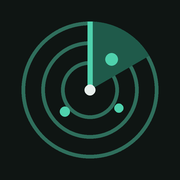
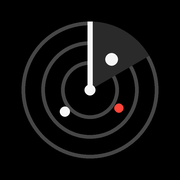
Radar IA : couleurs de l'appli Comptes
Claude-Session: https://claude.ai/code/session_01Udg2ct4pf48joXQAc4VBC9

Changed region(s): [[0.1111, 0.1111, 0.8889, 0.8889]]

diff --git a/index.html b/index.html
@@ -7,70 +7,60 @@
 <meta name="apple-mobile-web-app-capable" content="yes">
 <meta name="mobile-web-app-capable" content="yes">
 <meta name="apple-mobile-web-app-title" content="Radar IA">
-<meta name="apple-mobile-web-app-status-bar-style" content="default">
-<meta name="theme-color" content="#f3f5f4" media="(prefers-color-scheme: light)">
-<meta name="theme-color" content="#0f1513" media="(prefers-color-scheme: dark)">
+<meta name="apple-mobile-web-app-status-bar-style" content="black">
+<meta name="theme-color" content="#000000">
 <link rel="manifest" href="manifest.json">
 <link rel="apple-touch-icon" href="icon-180.png">
 <link rel="icon" href="icon-192.png">
 <link rel="preconnect" href="https://fonts.googleapis.com">
-<link rel="stylesheet" href="https://fonts.googleapis.com/css2?family=Atkinson+Hyperlegible:wght@400;700&family=Bricolage+Grotesque:opsz,wght@12..96,600;12..96,800&display=swap">
+<link rel="stylesheet" href="https://fonts.googleapis.com/css2?family=Inter+Tight:wght@400;500;600;700&display=swap">
 <style>
-/* Layout: une colonne de lecture pour iPhone, un bloc repliable par soir, le plus récent en haut */
+/* Layout: une colonne de lecture pour iPhone, un bloc repliable par soir, le plus récent en haut.
+   Couleurs reprises de l'appli Comptes : fond noir, cartes graphite, texte blanc, gris doux, rouge pour l'alerte. */
 :root{
-  --bg:#f3f5f4; --surface:#ffffff; --fg:#17201d; --muted:#5b6762; --line:#dbe2df;
-  --accent:#0f7a63; --accent-soft:#dff1ea;
-  --yes:#0f7a63; --yes-bg:#e1f3ec; --no:#7a5a12; --no-bg:#f6ecd5; --warn:#a2341f; --warn-bg:#f9e3dd;
-  --font-display:"Bricolage Grotesque", ui-rounded, system-ui, sans-serif;
-  --font-body:"Atkinson Hyperlegible", system-ui, -apple-system, sans-serif;
+  --bg:#000000; --surface:#161616; --surface-2:#1f1f1f; --fg:#f5f5f5; --muted:#a8a8a8; --line:#2a2a2a;
+  --accent:#ffffff; --pill:#f5f5f5; --pill-fg:#000000; --warn:#ff453a; --warn-bg:#3a1512;
+  --font:"Inter Tight", system-ui, -apple-system, sans-serif;
+  color-scheme:dark;
 }
-@media (prefers-color-scheme: dark){:root:not([data-theme="light"]){
-  --bg:#0f1513; --surface:#18211e; --fg:#e7eeeb; --muted:#9aa8a2; --line:#2a3632;
-  --accent:#4fd1ad; --accent-soft:#183a31;
-  --yes:#5fd8b4; --yes-bg:#163a30; --no:#e7c16e; --no-bg:#3a3018; --warn:#f19a85; --warn-bg:#40231c; color-scheme:dark}}
-:root[data-theme="dark"]{
-  --bg:#0f1513; --surface:#18211e; --fg:#e7eeeb; --muted:#9aa8a2; --line:#2a3632;
-  --accent:#4fd1ad; --accent-soft:#183a31;
-  --yes:#5fd8b4; --yes-bg:#163a30; --no:#e7c16e; --no-bg:#3a3018; --warn:#f19a85; --warn-bg:#40231c; color-scheme:dark}
-
-body{background:var(--bg);color:var(--fg);font-family:var(--font-body);font-size:17px;line-height:1.5;
+body{background:var(--bg);color:var(--fg);font-family:var(--font);font-size:17px;line-height:1.5;
   padding-left:max(16px,env(safe-area-inset-left,0px));padding-right:max(16px,env(safe-area-inset-right,0px));padding-block:20px 48px}
-.wrap{max-width:640px;margin:0 auto;display:flex;flex-direction:column;gap:20px}
-a{color:var(--accent)}
-a:focus-visible,summary:focus-visible{outline:2px solid var(--accent);outline-offset:3px;border-radius:6px}
+.wrap{max-width:640px;margin:0 auto;display:flex;flex-direction:column;gap:16px}
+a{color:var(--accent);text-underline-offset:3px}
+a:focus-visible,summary:focus-visible{outline:2px solid var(--accent);outline-offset:3px;border-radius:8px}
 
-header{display:flex;flex-direction:column;gap:6px}
+header{display:flex;flex-direction:column;gap:6px;padding-top:8px}
 .brand{display:flex;align-items:center;gap:10px}
-.dot{width:14px;height:14px;border-radius:50%;background:var(--accent);box-shadow:0 0 0 5px var(--accent-soft)}
-h1{font-family:var(--font-display);font-weight:800;font-size:1.9rem;line-height:1.1;margin:0;text-wrap:balance}
-.sub{color:var(--muted);margin:0;font-size:.95rem}
+.dot{width:12px;height:12px;border-radius:50%;background:var(--fg);box-shadow:0 0 0 5px var(--surface-2)}
+h1{font-weight:700;font-size:1.75rem;line-height:1.1;margin:0;text-wrap:balance;letter-spacing:-.01em}
+.sub{color:var(--muted);margin:0;font-size:.92rem}
 
-details.day{background:var(--surface);border:1px solid var(--line);border-radius:16px;overflow:hidden}
-details.day>summary{list-style:none;cursor:pointer;padding:16px 18px;display:flex;justify-content:space-between;align-items:baseline;gap:12px}
+details.day{background:var(--surface);border:1px solid var(--line);border-radius:20px;overflow:hidden}
+details.day>summary{list-style:none;cursor:pointer;padding:18px 20px;display:flex;justify-content:space-between;align-items:baseline;gap:12px}
 details.day>summary::-webkit-details-marker{display:none}
-.daytitle{font-family:var(--font-display);font-weight:800;font-size:1.25rem}
-.daycount{color:var(--muted);font-size:.85rem;white-space:nowrap}
-.daybody{padding:0 18px 18px;display:flex;flex-direction:column;gap:18px}
-.intro{margin:0;padding:12px 14px;background:var(--accent-soft);border-radius:10px;font-size:.95rem}
+.daytitle{font-weight:700;font-size:1.2rem}
+.daycount{color:var(--muted);font-size:.82rem;white-space:nowrap}
+.daybody{padding:0 20px 20px;display:flex;flex-direction:column;gap:16px}
+.intro{margin:0;padding:12px 14px;background:var(--surface-2);border-radius:12px;font-size:.92rem;color:var(--muted)}
 
-h2{font-family:var(--font-display);font-weight:600;font-size:.8rem;letter-spacing:.08em;text-transform:uppercase;color:var(--muted);margin:6px 0 0}
-.list{display:flex;flex-direction:column;gap:0}
+h2{font-weight:500;font-size:.78rem;letter-spacing:.06em;text-transform:uppercase;color:var(--muted);margin:6px 0 0}
+.list{display:flex;flex-direction:column}
 .item{display:flex;flex-direction:column;gap:6px;padding:14px 0;border-top:1px solid var(--line);min-width:0}
 .item:first-child{border-top:0;padding-top:4px}
-.item h3{margin:0;font-size:1.05rem;line-height:1.3;font-weight:700}
+.item h3{margin:0;font-size:1.03rem;line-height:1.3;font-weight:600}
 .item p{margin:0}
-.verdict{display:inline-block;font-weight:700;font-size:.85rem;padding:2px 10px;border-radius:999px;margin-right:6px}
-.v-yes{background:var(--yes-bg);color:var(--yes)}
-.v-no{background:var(--no-bg);color:var(--no)}
+.verdict{display:inline-block;font-weight:600;font-size:.8rem;padding:3px 10px;border-radius:999px;margin-right:6px}
+.v-yes{background:var(--pill);color:var(--pill-fg)}
+.v-no{background:var(--surface-2);color:var(--muted);border:1px solid var(--line)}
 .v-warn{background:var(--warn-bg);color:var(--warn)}
-.meta{display:flex;flex-wrap:wrap;gap:4px 14px;font-size:.85rem;color:var(--muted)}
-.meta b{color:var(--fg);font-weight:700}
-.check{font-size:.8rem;color:var(--muted)}
-.check.ok::before{content:"✓ ";color:var(--yes);font-weight:700}
+.meta{display:flex;flex-wrap:wrap;gap:4px 14px;font-size:.84rem;color:var(--muted)}
+.meta b{color:var(--fg);font-weight:600}
+.check{font-size:.78rem;color:var(--muted)}
+.check.ok::before{content:"✓ ";color:var(--fg);font-weight:700}
 .check.ko::before{content:"! ";color:var(--warn);font-weight:700}
-.small .item h3{font-size:.98rem}
+.small .item h3{font-size:.96rem}
 .small .item{padding:10px 0}
-footer{color:var(--muted);font-size:.85rem;text-align:center}
+footer{color:var(--muted);font-size:.82rem;text-align:center}
 @media (prefers-reduced-motion:no-preference){details.day[open] .daybody{animation:in .25s ease-out}@keyframes in{from{transform:translateY(-4px)}to{transform:none}}}
 :root{padding-top:env(safe-area-inset-top,0px);padding-bottom:env(safe-area-inset-bottom,0px)}
 *{box-sizing:border-box} body{margin:0}
